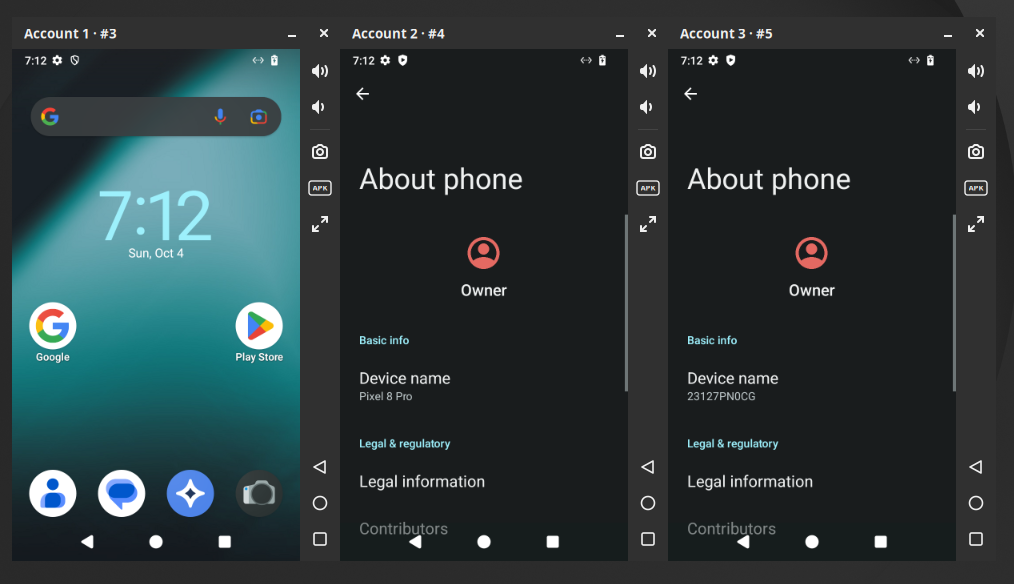
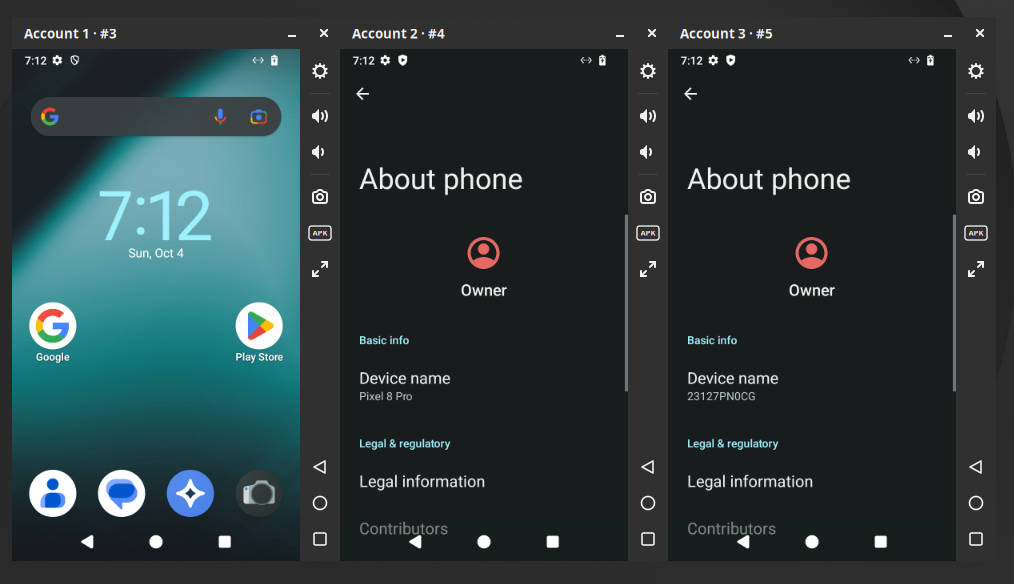
README: screenshots with the Settings button and the current manager
The instance windows' screenshot keeps its Android screens; the title bars and toolbars are
redrawn with frame.py, so the toolbars start with the Settings button and its divider (the
title bars come out pixel-identical, nothing else changes). The manager's is the current window,
whose rows show each device's Android version, with the same demo instances as before.

diff --git a/README.md b/README.md
@@ -96,7 +96,7 @@ before, you can switch to the `.deb` at any time; your instances are kept.
 
 ## Using the manager app
 
-![The manager: your normal Waydroid as #0 under Default, the other instances below with their disk use, some running](docs/screenshots/manager.png)
+![The manager: your normal Waydroid as #0 under Default, the other instances below with their Android version and disk use, some running](docs/screenshots/manager.png)
 
 - **+ New Instance** creates an instance. Instances are numbered automatically: your normal
   Waydroid is **#0**, new ones get the next free number (#1, #2, …).
